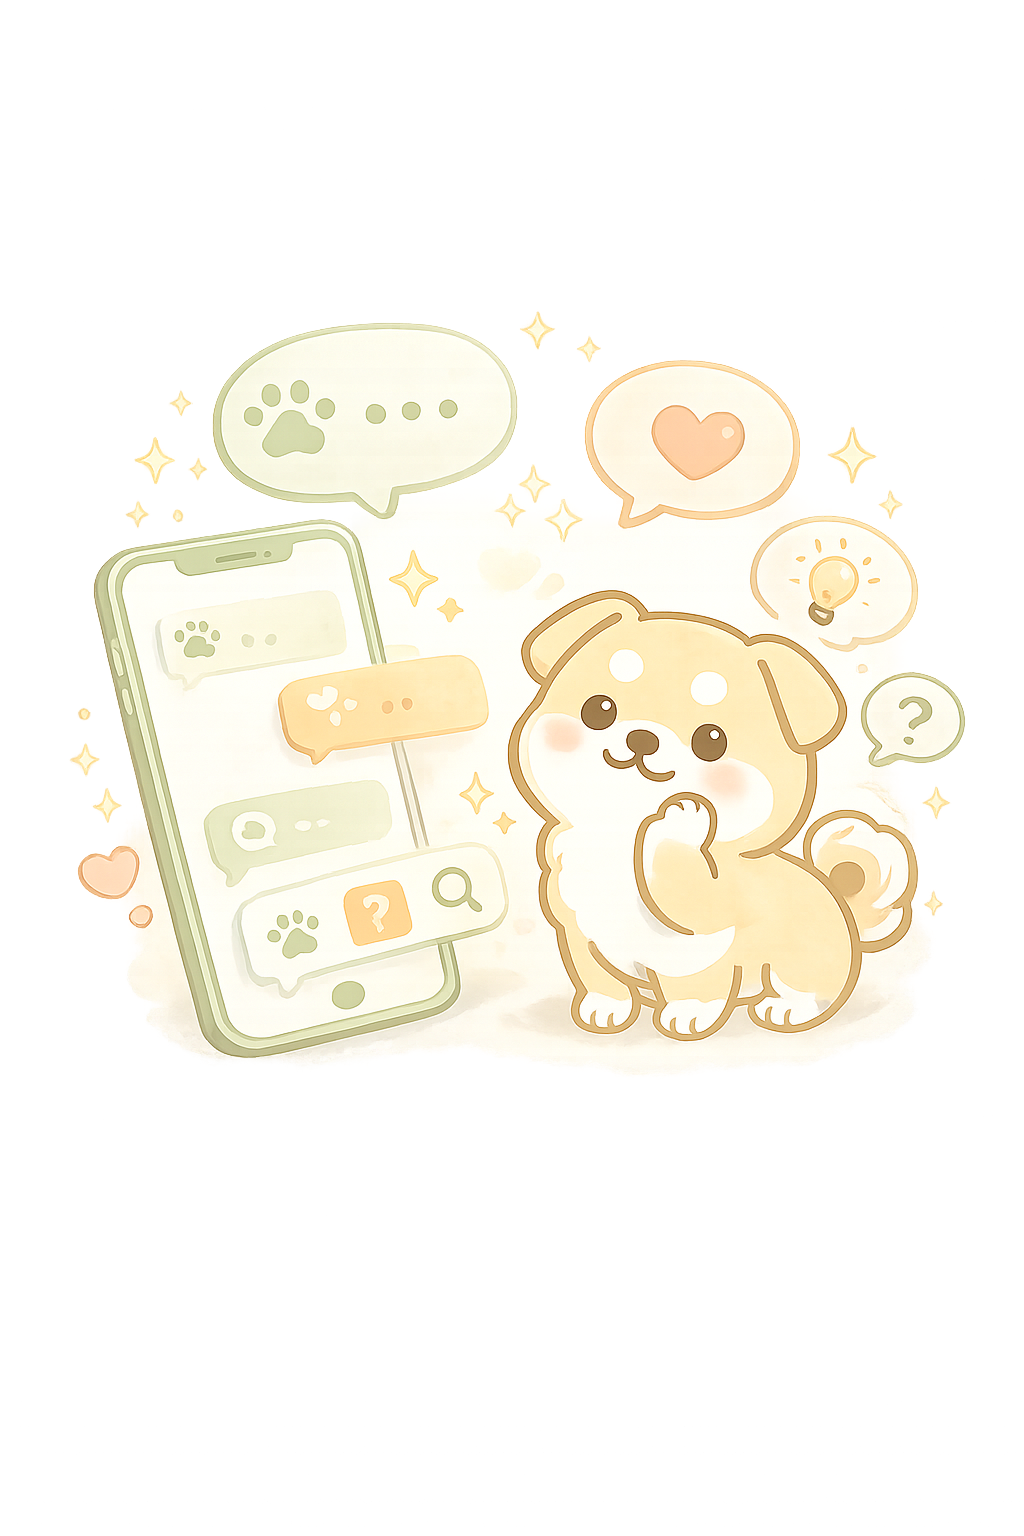
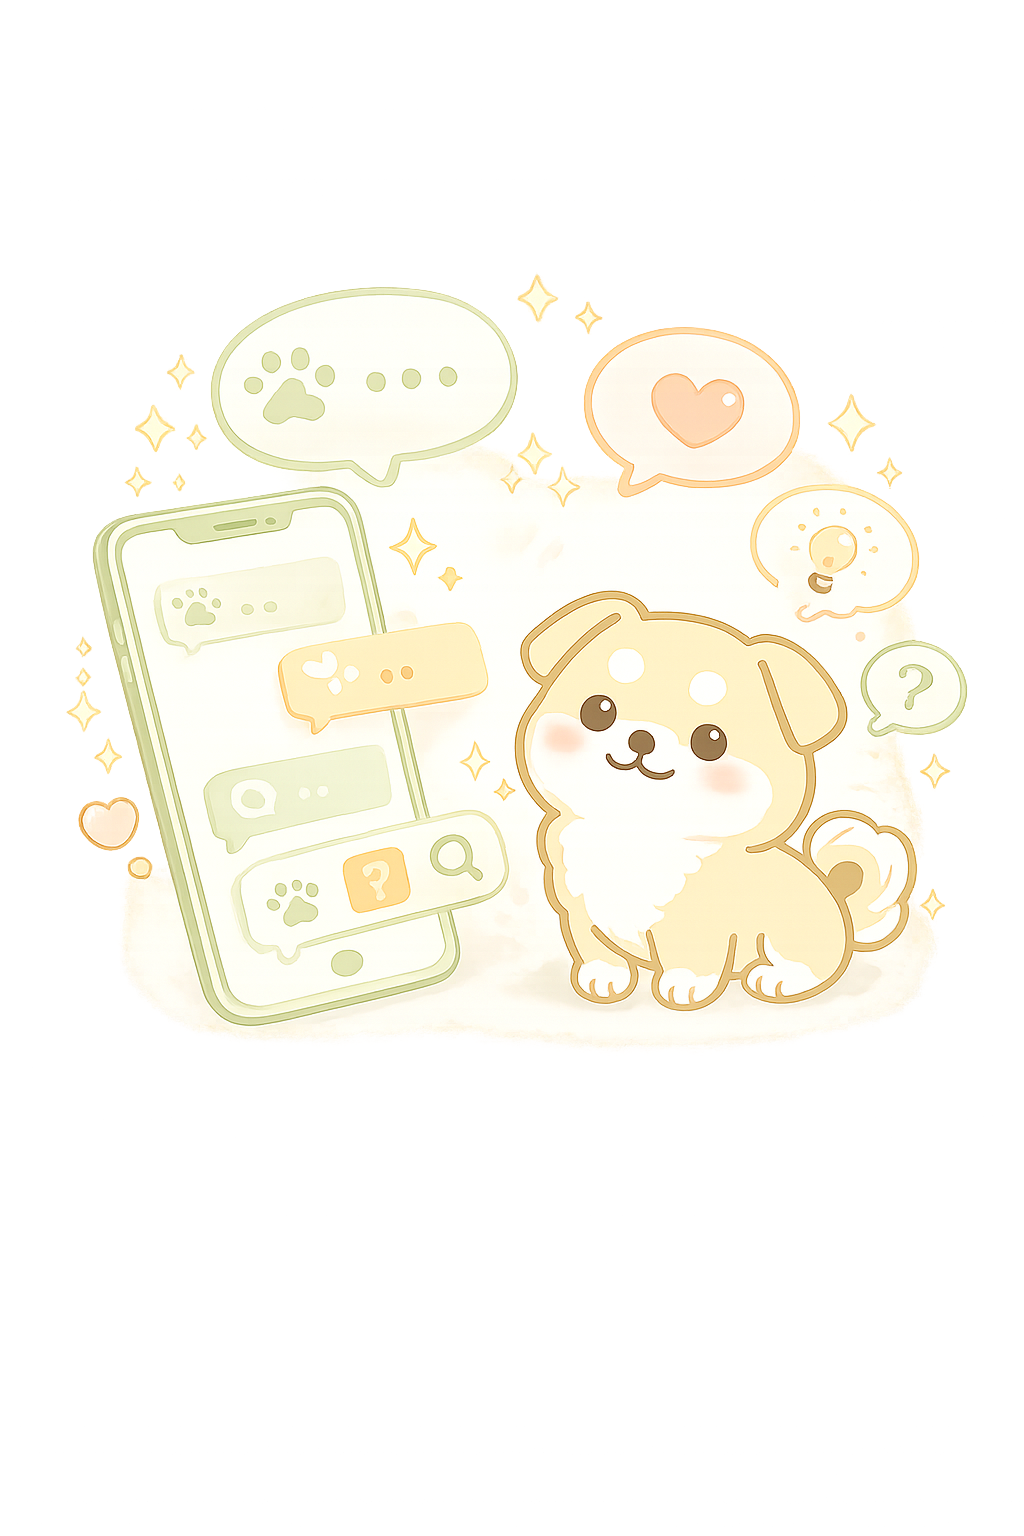
feat: add help navigation to aikenbiyori landing page
Add a "使い方・サポート" section linking to the guide, FAQ, and
troubleshooting pages, and mirror the same links in the footer.

Changed region(s): [[0.0625, 0.1875, 0.9688, 0.6875], [0.6875, 0.4688, 0.7188, 0.5]]

diff --git a/src/app/aikenbiyori/aikenbiyori.css b/src/app/aikenbiyori/aikenbiyori.css
@@ -132,6 +132,7 @@ body:has(.aiken-site-shell) > main {
 .aiken-feature,
 .aiken-values,
 .aiken-guide,
+.aiken-support,
 .aiken-download {
   width: min(100% - 2rem, 1160px);
   margin-inline: auto;
@@ -244,7 +245,8 @@ body:has(.aiken-site-shell) > main {
 
 .aiken-overview,
 .aiken-values,
-.aiken-guide {
+.aiken-guide,
+.aiken-support {
   padding-block: 4.75rem;
 }
 
@@ -492,6 +494,53 @@ body:has(.aiken-site-shell) > main {
   font-size: 1.15rem;
 }
 
+.aiken-support {
+  border-block: 1px solid var(--aiken-border);
+}
+
+.aiken-support-grid {
+  display: grid;
+  gap: 1rem;
+}
+
+.aiken-support-card {
+  position: relative;
+  display: flex;
+  flex-direction: column;
+  gap: 0.4rem;
+  min-height: 140px;
+  padding: 1.5rem 3rem 1.5rem 1.5rem;
+  border: 1px solid var(--aiken-border);
+  border-radius: 22px;
+  background: var(--aiken-surface);
+  box-shadow: 0 8px 24px rgba(82, 66, 42, 0.05);
+  transition: border-color 0.2s, transform 0.2s;
+}
+
+.aiken-support-card::after {
+  position: absolute;
+  top: 1.5rem;
+  right: 1.3rem;
+  color: var(--aiken-orange-dark);
+  content: "→";
+}
+
+a.aiken-support-card:hover {
+  border-color: #c9cfac;
+  transform: translateY(-2px);
+}
+
+.aiken-support-card strong {
+  color: var(--aiken-olive-dark);
+  font-size: 1.1rem;
+}
+
+.aiken-support-card span {
+  color: var(--aiken-muted);
+  font-size: 0.85rem;
+  line-height: 1.75;
+}
+
 .aiken-download {
   padding: 4.25rem 1.25rem;
   margin-block: 5rem;
@@ -617,7 +666,8 @@ body:has(.aiken-site-shell) > main {
   }
 
   .aiken-overview-links,
-  .aiken-value-grid {
+  .aiken-value-grid,
+  .aiken-support-grid {
     grid-template-columns: repeat(3, minmax(0, 1fr));
   }
 
@@ -644,6 +694,7 @@ body:has(.aiken-site-shell) > main {
   .aiken-feature,
   .aiken-values,
   .aiken-guide,
+  .aiken-support,
   .aiken-download {
     width: min(100% - 4rem, 1160px);
   }
@@ -732,6 +783,7 @@ body:has(.aiken-site-shell) > main {
   .aiken-feature,
   .aiken-values,
   .aiken-guide,
+  .aiken-support,
   .aiken-download {
     width: min(100% - 1.25rem, 1160px);
   }
@@ -749,13 +801,15 @@ body:has(.aiken-site-shell) > main {
 
   .aiken-button,
   .aiken-overview-links a,
-  .aiken-guide-links a {
+  .aiken-guide-links a,
+  .aiken-support-card {
     transition: none;
   }
 
   .aiken-button-primary:hover,
   .aiken-overview-links a:hover,
-  .aiken-guide-links a:hover {
+  .aiken-guide-links a:hover,
+  a.aiken-support-card:hover {
     transform: none;
   }
 }

diff --git a/src/components/aikenbiyori/HelpNavigation.tsx b/src/components/aikenbiyori/HelpNavigation.tsx
@@ -1,0 +1,39 @@
+import Link from "next/link";
+
+const helpLinks = [
+  {
+    title: "使い方ガイド",
+    description: "はじめての方から、各機能の詳しい使い方まで",
+    href: "/aikenbiyori/guide/",
+  },
+  {
+    title: "よくある質問",
+    description: "よくある疑問を短く確認できます",
+    href: "/aikenbiyori/faq/",
+  },
+  {
+    title: "困ったとき",
+    description: "エラーや操作で困ったときの確認方法",
+    href: "/aikenbiyori/help/troubleshooting/",
+  },
+];
+
+export default function HelpNavigation() {
+  return (
+    <section className="aiken-support" aria-labelledby="support-title">
+      <div className="aiken-section-heading">
+        <p className="aiken-section-kicker">SUPPORT</p>
+        <h2 id="support-title">使い方・サポート</h2>
+        <p>はじめての方も、使い方に迷ったときも、ここから確認できます。</p>
+      </div>
+      <div className="aiken-support-grid">
+        {helpLinks.map((item) => (
+          <Link key={item.href} className="aiken-support-card" href={item.href}>
+            <strong>{item.title}</strong>
+            <span>{item.description}</span>
+          </Link>
+        ))}
+      </div>
+    </section>
+  );
+}

diff --git a/src/app/aikenbiyori/page.tsx b/src/app/aikenbiyori/page.tsx
@@ -2,6 +2,7 @@ import type { Metadata } from "next";
 import Link from "next/link";
 import DownloadCta from "@/components/aikenbiyori/DownloadCta";
 import FeatureSection from "@/components/aikenbiyori/FeatureSection";
+import HelpNavigation from "@/components/aikenbiyori/HelpNavigation";
 import HeroSection from "@/components/aikenbiyori/HeroSection";
 import { getAppsStoreData } from "@/lib/appStore";
 import { siteConfig } from "@/lib/siteConfig";
@@ -203,6 +204,8 @@ export default function AikenbiyoriPage() {
       </section>
 
       <DownloadCta appStoreUrl={appStoreUrl} />
+
+      <HelpNavigation />
     </div>
   );
 }

diff --git a/src/components/aikenbiyori/AikenbiyoriFooter.tsx b/src/components/aikenbiyori/AikenbiyoriFooter.tsx
@@ -12,6 +12,9 @@ export default function AikenbiyoriFooter() {
           <p>運営: {siteConfig.siteName}</p>
         </div>
         <nav className="aiken-footer-links" aria-label="フッターメニュー">
+          <Link href="/aikenbiyori/guide/">使い方ガイド</Link>
+          <Link href="/aikenbiyori/faq/">よくある質問</Link>
+          <Link href="/aikenbiyori/help/troubleshooting/">困ったとき</Link>
           <a
             href="https://tested-snapdragon-e94.notion.site/3a82f954671980d1a039fd2606a825c7"
             target="_blank"
